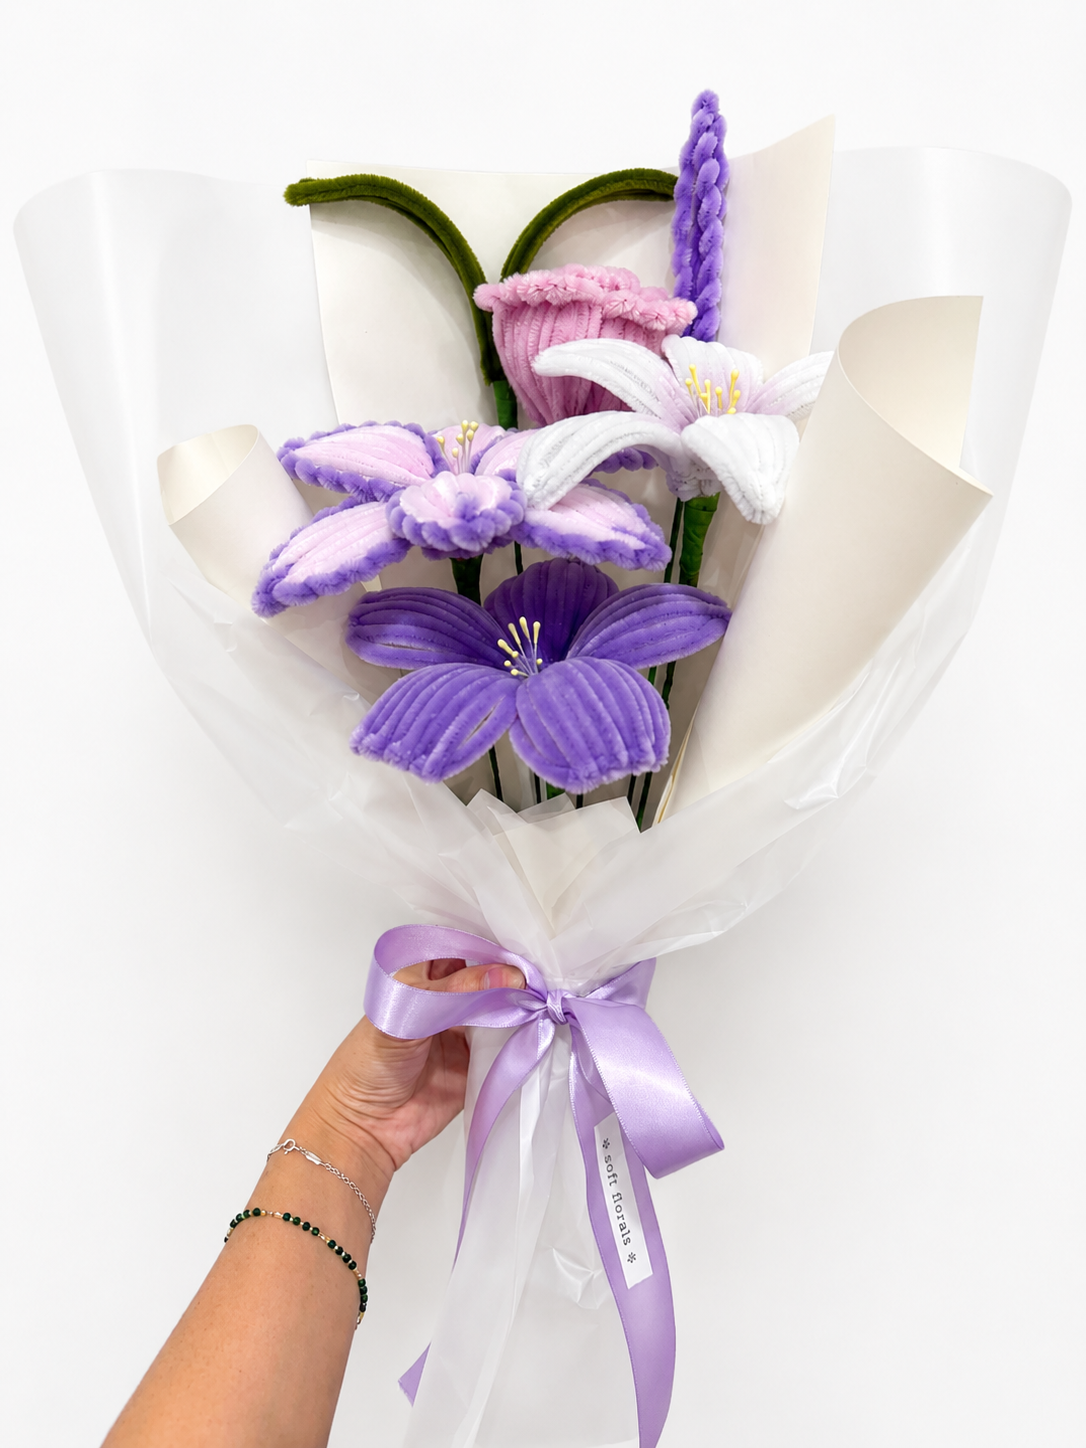
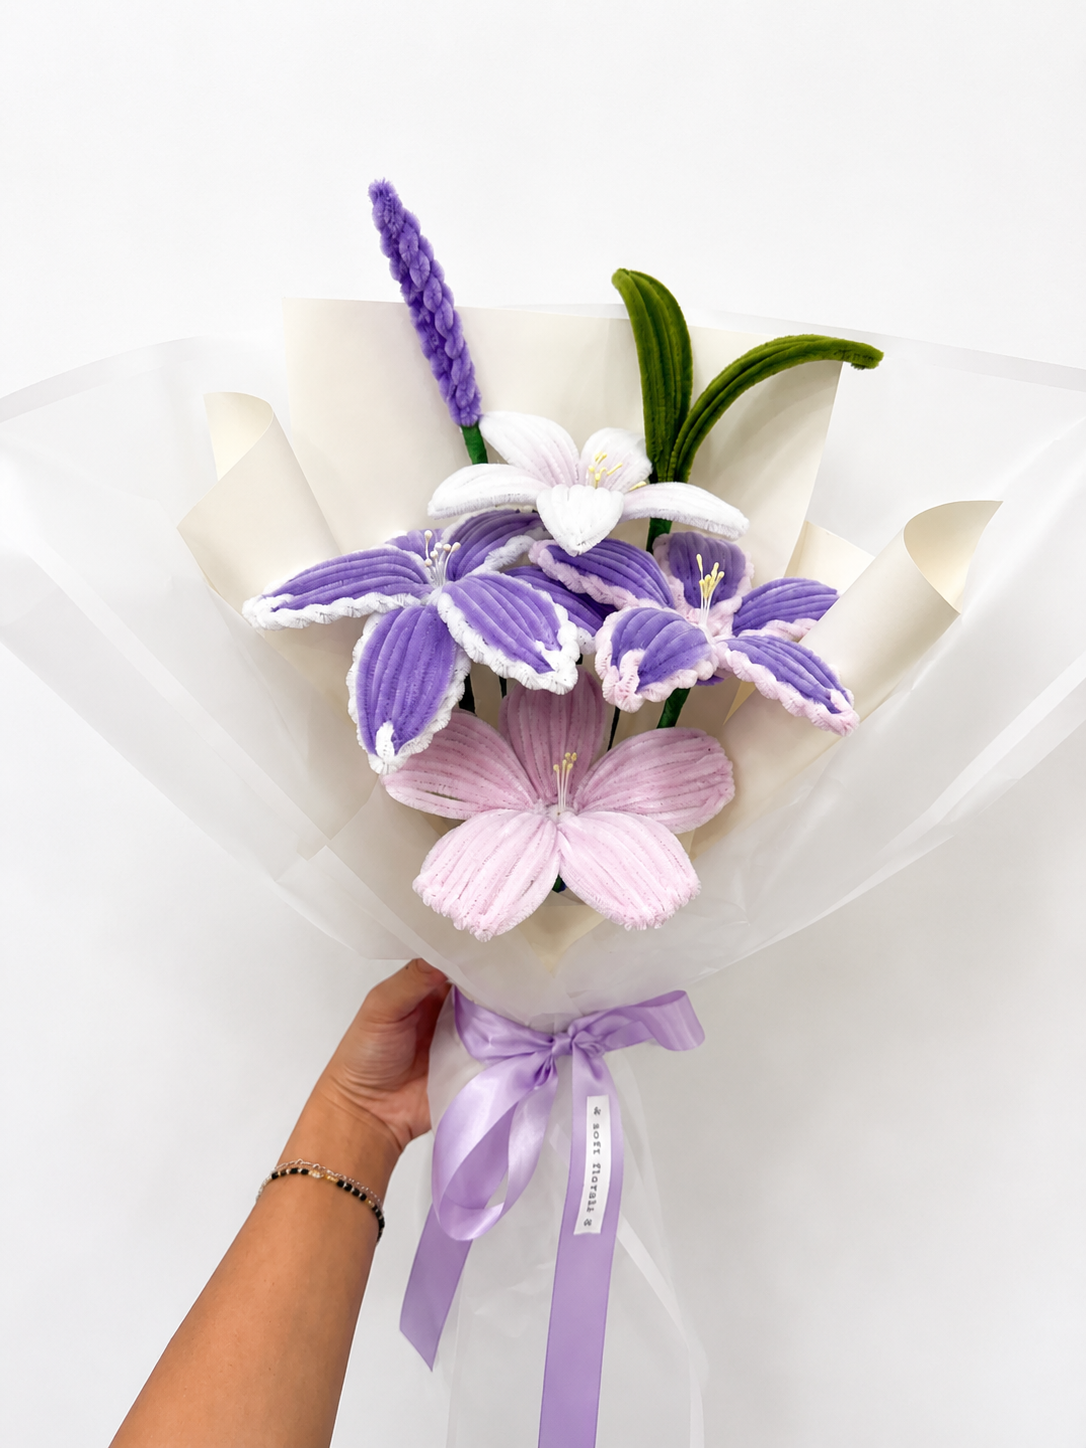
Promote new soft-pink and soft-purple shots to primary, demote alts
The two newest ChatGPT studio shots become the hero images for Soft
Pink and Soft Purple; the prior heroes are kept as alt variants so
the card hover and product page gallery still cycle through them.

diff --git a/src/content/products.js b/src/content/products.js
@@ -24,7 +24,10 @@ export const products = {
       category: 'Bouquets',
       price: 50,
       image: '/images/products/soft-purple.png',
-      images: ['/images/products/soft-purple.png'],
+      images: [
+        '/images/products/soft-purple.png',
+        '/images/products/soft-purple-alt.png',
+      ],
       hasPhoto: true,
       blurb: 'A dreamy lavender bouquet of lilies, tulips and a single deep-purple rose.',
       description:
@@ -38,6 +41,7 @@ export const products = {
       image: '/images/products/soft-pink.png',
       images: [
         '/images/products/soft-pink.png',
+        '/images/products/soft-pink-alt.png',
         '/images/products/soft-pink-blossom.png',
       ],
       hasPhoto: true,